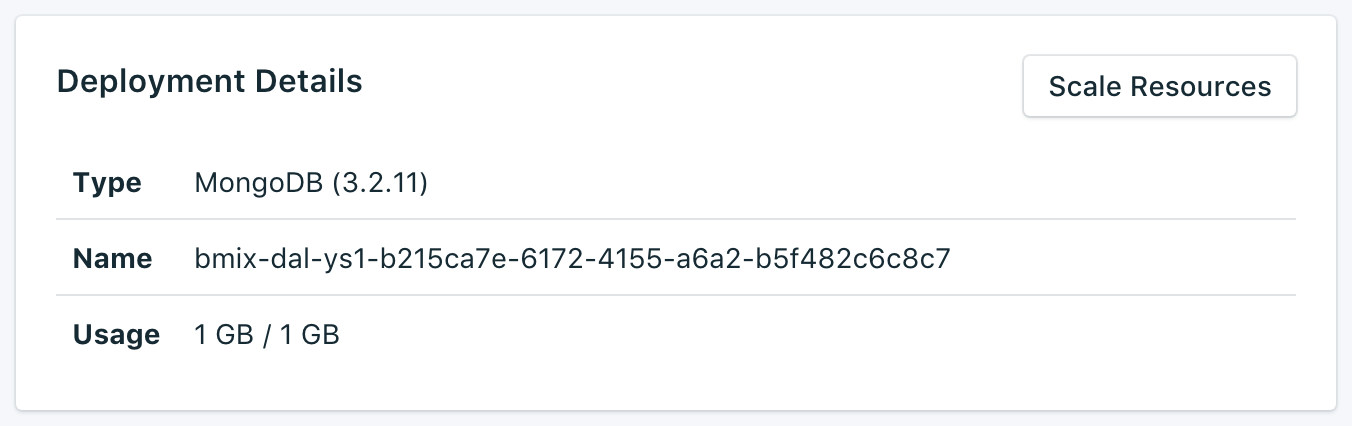
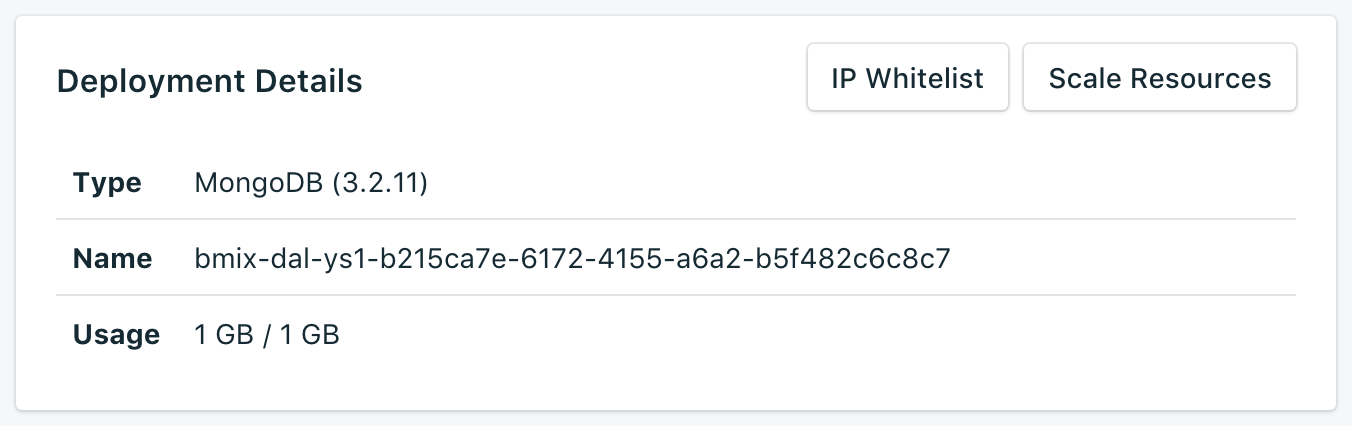
Oct 17 updates

Changed region(s): [[0.5902, 0.0915, 0.963, 0.2746], [0.5902, 0.1526, 0.7456, 0.2136]]

diff --git a/dashboard-backups.md b/dashboard-backups.md
@@ -23,6 +23,10 @@ Daily backups of your database are automatically scheduled. To view your existin
 
 ![Backups](./images/mongodb-backups-show.png "A list of available backups")
 
+Click on the corresponding row to expand the options for any available backup.
+  
+![Backup Options](./images/mongodb-backups-options.png "Options for a backup.") 
+
 ## Creating a backup on demand
 
 As well as scheduled backups you can create a backup manually. To create a manual backup, navigate to the *Manage* page of your service dashboard and click *Backup now*.
@@ -42,33 +46,6 @@ To get a local restore of your databases and data:
 3. Extract the data from the backup into a new directory.
 4. Start a local MongoDB instance with the command `mongod --dbpath ./db` where './db' is the directory that contains the extracted data.
 
+## Restoring a backup
 
-## Restoring a backup to your Compose for MongoDB service
-
-To restore your {{site.data.keyword.ComposeForMongoDB}} backup to your service you need to run `mongodump` against the local database, and then use `mongorestore`, which takes the data from `mongodump` to send a series of inserts to the target database, but ignoring duplicate records. If your data is largely "write once", this is a good way to merge backup data with production.
-
-1. Make sure you have MongoDB running locally, and that it uses the {{site.data.keyword.ComposeForMongoDB}} backup.
-2. Run `mongodump` against the local database instance:
-
-  ```
-  mongodump --ssl --sslAllowInvalidCertificates --host <hostname> --port <portnumber> --db <database_name> -u <username> -p <password>
-  ```
-
-3. Run `mongorestore`. To use the data taken from mongodump, using mongorestore, you can use the local host, port number, and user access settings to get your data locally.
-
-  If you have the MongodDB Tools installed (or a local install of MongoDB), you can run `mongorestore` against your target database. The `dump/` should be in the directory relative to your current working path, and the database_name will be the database you exported from. 
-
-  ```
-  mongorestore --ssl --sslAllowInvalidCertificates --host <hostname> --port <portnumber> --db <database_name> -u <username> -p<password> dump/database_name
-  ```
-
-  In this case the username and password is a user created in that specific database. If you use the _admin_ database for user administration and permissions the command will look like this:
-
-  ```
-  mongorestore --ssl --sslAllowInvalidCertificates --host <hostname> --port <portnumber> --db <database_name> -u <username> -p<password> --authenticationDatabase admin dump/database_name
-  ```
-
-  **Note:** The lack of a space between the -p and your database password is significant.
-
-This process will not apply updates that may have happened since the backup was made, and will reinsert any since deleted documents.
-{: .tip}
+To restore a backup to a new service instance, follow the steps to view existing backups, then click in the corresponding row to expand the options for the backup you want to download. Click on the **Restore** button. A message is displayed to let you know that a restore has been initiated. The new service instance will automatically be named "mongodb-restore-[timestamp]", and appears on your dashboard when provisioning starts.

diff --git a/dashboard-whitelists.md b/dashboard-whitelists.md
@@ -1,0 +1,37 @@
+---
+
+Copyright:
+  Years: 2017
+lastupdated: "2017-10-16"
+---
+
+{:new_window: target="_blank"}
+{:shortdesc: .shortdesc}
+{:screen: .screen}
+{:codeblock: .codeblock}
+{:pre: .pre}
+
+# Whitelists
+
+If you want to restrict access to your databases, you can whitelist specific ip addresses or ranges of ip addresses on your service. When there are no IP addresses in the whitelist, the whitelist is disabled and the deployment will accept connections from any system on the internet.
+
+![Whitelisting IPs](./images/mongodb-whitelist-show.png "The whitelist fields.")
+
+## IP Addresses
+The *IP* field can take a single complete IPv4 address or IPv6 address with or without a netmask. Without a netmask, incoming connections must come from exactly that IP address. 
+
+Note that although the IP entry allows for IPv6, no Compose deployments are currently available to IPv6 networking and so these addresses cannot be filtered on.
+
+## Netmasks
+To allow a connection from a specified range of IP addresses, use a netmask. The IP address must be fully specified when using a netmask. That means entering, for example, 192.168.1.0/24 rather than 192.168.1/24.
+
+## Description
+The *Description* can be any user-significant text for identifying the whitelist entry - a customer name, project identifier or employee number, for example. The description field is required.
+
+## Compose Services
+Whitelist entries are automatically added to Compose's servers to allow them to connect.
+
+## Removal
+To remove an IP address or netmask from the Whitelist, click the *Remove* entry displayed next to it.
+When all entries on the whitelist are removed, the whitelist will be disabled and all IP addresses will be accepted by the TCP access portals or Mongos router portals.
+

diff --git a/index.md b/index.md
@@ -2,7 +2,7 @@
 
 copyright:
   years: 2016,2017
-lastupdated: "2017-07-13"
+lastupdated: "2017-10-16"
 ---
 
 {:new_window: target="_blank"}
@@ -29,7 +29,7 @@ When you provision your {{site.data.keyword.composeForMongoDB}} instance you can
 
 ## Managing Compose for MongoDB
 
-You can manage your service from the service dashboard. Here you can find information about your Bluemix Compose database and how to connect to it. You can also manage your backups from the dashboard and allocated more resources for your service. For more information, see [Service Overview](./dashboard-overview.html), [Backups](./dashboard-backups.html), and [Scaling Resources](./dashboard-scaling-resources.html).
+You can manage your service from the service dashboard. Here you can find information about your Bluemix Compose database and how to connect to it. You can also manage your backups, allocate more resources for your service, and use whitelists to restrict access to your databases. For more information, see [Service Overview](./dashboard-overview.html), [Backups](./dashboard-backups.html), [Scaling Resources](./dashboard-scaling-resources.html), and [Whitelists](./dashboard-whitelists.html).
 
 ## Connecting to Compose for MongoDB
 
